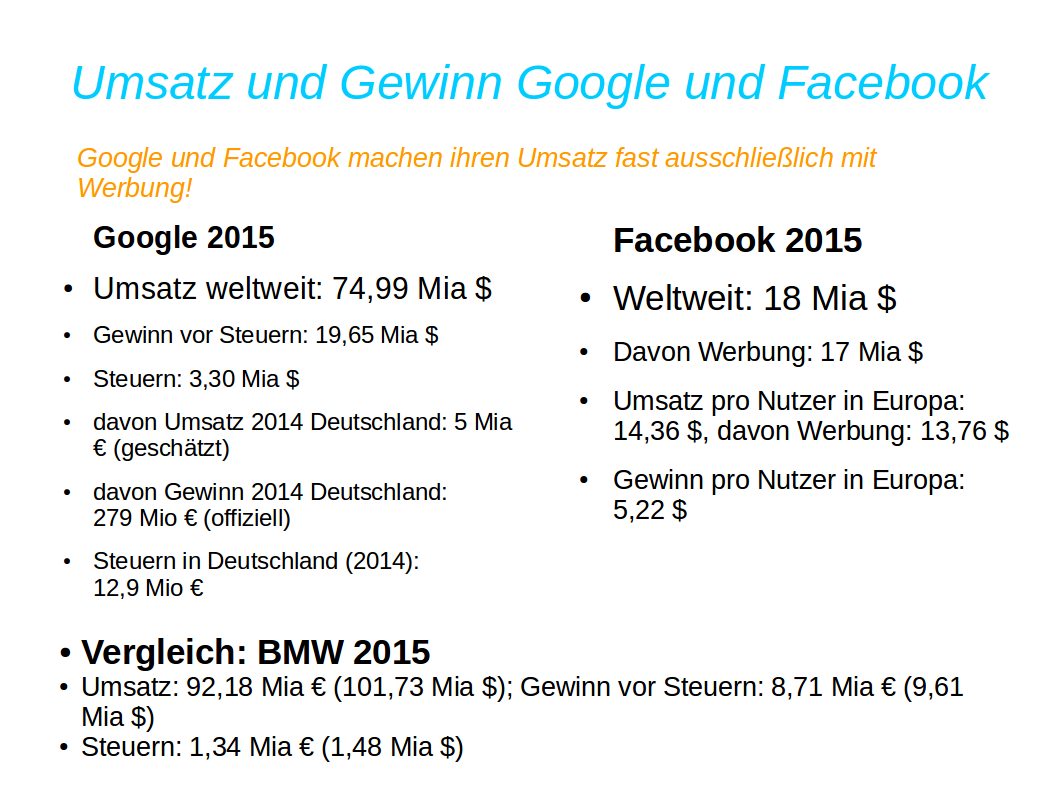
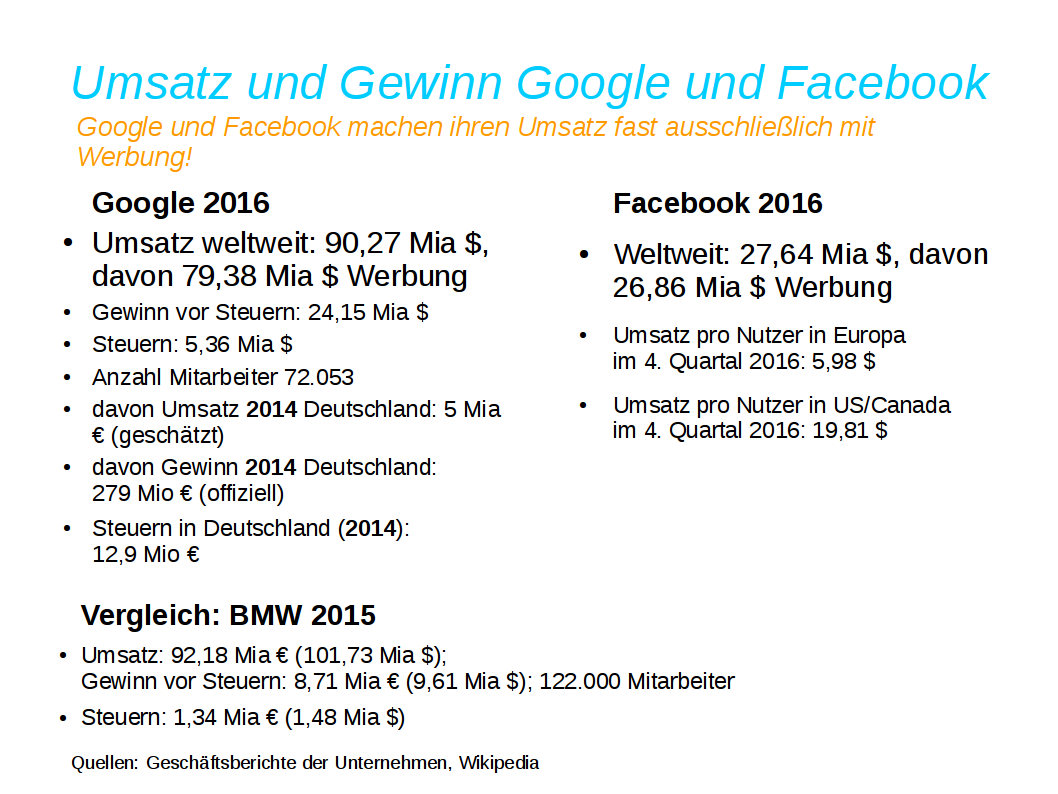
Zahlen Google und Facebook aktualisiert, Quellen zum Teil hinzugefügt

diff --git a/cms.html b/cms.html
@@ -217,7 +217,7 @@
 <section>
     <figure>
       <video src="video/datacenter.mp4">
-           https://www.youtube.com/watch?v=avP5d16wEp0
+            https://www.youtube.com/watch?v=avP5d16wEp0
       </video>
       <figcaption>
         Ein Google Rechenzentrum
@@ -576,17 +576,22 @@ Das Recht auf informationelle Selbstbestimmung ist im bundesdeutschen Recht das 
 <section>
   <img src="static/Werbeaufwendungen in Deutschland.png" width=100%>
     <footer>
-      Werbung hat es schon immer gegeben - und bekommt durch das Internet einen attraktiven, neuen Kanal.
+      Werbung hat es  schon immer gegeben - und bekommt durch das Internet einen attraktiven, neuen Kanal.
     </footer>
+  <!--Quelle: http://www.nielsen.com/content/dam/nielsenglobal/de/docs/Universen_D_2015_Internet_NEU.pdf -->  
+  
 </section>
 
 <section>
   <img src="static/Umsatz Google und Facebook.png" width=100%>
+  <!--Quelle: https://www.google.com/finance?q=NASDAQ:GOOGL&fstype=ii;
+              http://www.finanzen.net/bilanz_guv/facebook -->
 </section>
 
 <section>
   <img src="static/Zielgruppenerkennung durch Facebook.png" width=100%>
-  <!-- Daher sind Facebook und Google die idealen Partner für die Werbe-Industrie! -->
+  <!-- Daher sind Facebook und Google die idealen Partner für die Werbe-Industrie!
+       Quelle: Nielsen, s.o. -->
 </section>
 
 <section>
@@ -598,6 +603,7 @@ Das Recht auf informationelle Selbstbestimmung ist im bundesdeutschen Recht das 
   <footer> 
   Die Konsumenten werden in unterschiedliche Gruppen, d.h.Kaufkraftklassen eingeteilt
   </footer>
+  <!--Quelle: http://www.sinus-institut.de/sinus-loesungen/microm-geo-milieus/ -->
 </section>
 
 <section>
@@ -635,14 +641,14 @@ Das Recht auf informationelle Selbstbestimmung ist im bundesdeutschen Recht das 
 <section>
   <img src="static/Prognosen aus Likes.png" width=100%>
   <footer>
-  Jetzt weiß die Werbe-Industrie noch mehr über uns - denn die Facebook Likes sind öffentlich!
+  Jetzt weiß die Werbe-Industrie noch mehr über uns - denn die Facebook Likes sind öffentlich.
   </footer>
 </section>
 
 <section>
   <img src="static/Prognosen aus Smartphone Nutzung.png" width=100%>
   <footer>
-  Manche Apps beobachten das Verhalten eines Nutzers, erstellen Profile und senden sie an Werbenetzwerke!
+  Manche Apps beobachten das Verhalten eines Nutzers, erstellen Profile und senden sie an Werbenetzwerke.
   </footer>
 </section>
 
